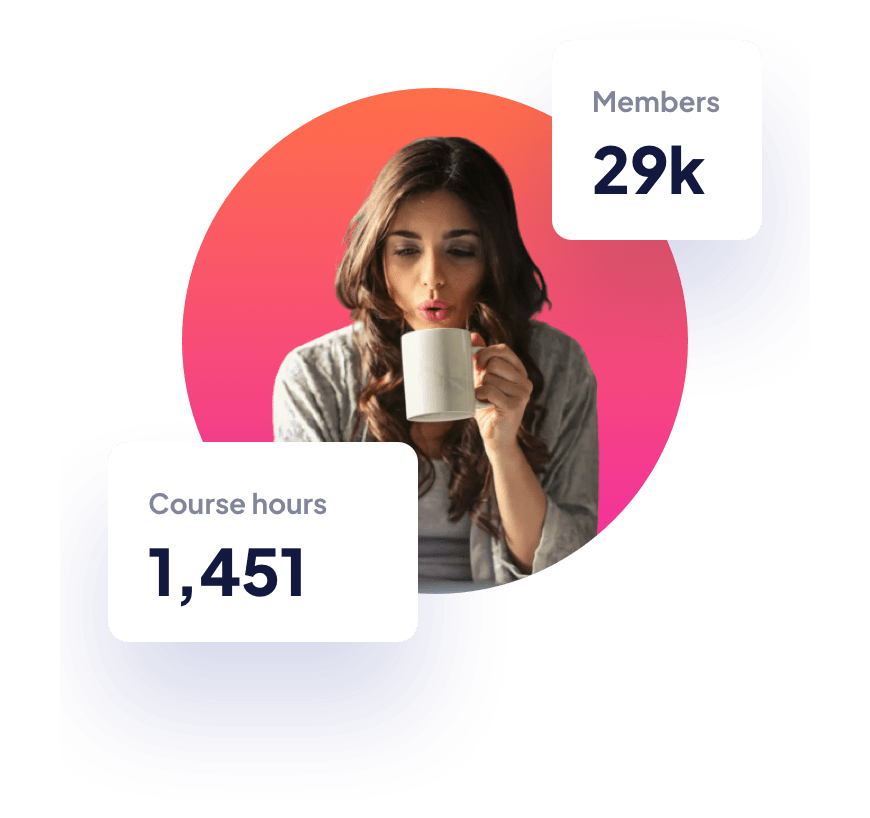
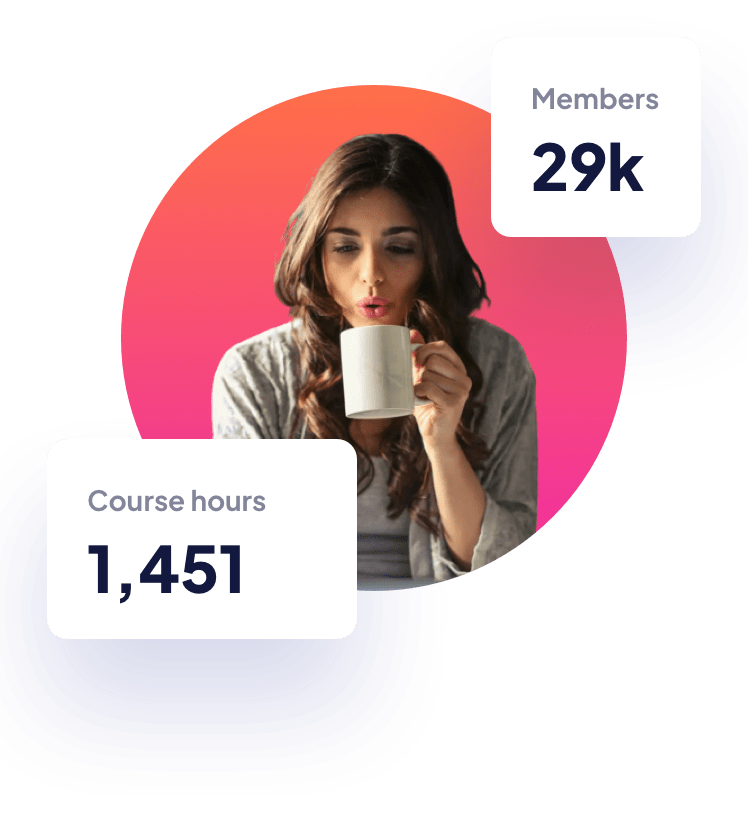
Add mobile-first HTML and CSS

Changed region(s): [[0.2767, 0.092, 0.8917, 0.7362], [0.123, 0.5828, 0.369, 0.7362], [0.1537, 0.1227, 0.3997, 0.5521]]

diff --git a/css/styles.css b/css/styles.css
@@ -25,16 +25,21 @@
   --color-pure-white: hsl(0, 0%, 100%);
   --color-background: hsl(0, 0%, 95%);
   --gradient-persian-rose-persimmon: linear-gradient(to top, hsl(322, 87%, 55%), hsl(13, 100%, 64%));
-  --gradient-persian-rose-dodger-blue: linear-gradient(to top, hsl(237, 100%, 64%), hsl(322, 87%, 55%));
-  /* font: font-style font-variant font-weight font-size/line-height font-family */
+  --gradient-persian-rose-persimmon-hover: linear-gradient(to top, hsl(322, 88%, 78%), hsl(13, 100%, 82%));
+  --gradient-persian-rose-dodger-blue: linear-gradient(to bottom, hsl(237, 100%, 64%), hsl(322, 87%, 55%));
+  --gradient-persian-rose-dodger-blue-hover: linear-gradient(to bottom, hsl(265, 71%, 78%), hsl(322, 88%, 78%));
+  --gradient-pure-white-titan-white: linear-gradient(to bottom, hsl(0, 0%, 100%), hsl(236, 100%, 97%));
   --text-heading-xl: 56px/70px 'plusJakartaSansExtraBold';
   --text-heading-lg: 40px/51px 'plusJakartaSansExtraBold';
   --text-heading-md: 32px/40px 'plusJakartaSansExtraBold';
-  --text-heading-sm: 24px/29px 'plusJakartaSansExtraBold';
-  --text-body-md: 18px/28px 'plusJakartaSansMedium';
+  --text-heading-md-mobile: 28px/32px 'plusJakartaSansExtraBold';
+  --text-heading-sm: 24px/32px 'plusJakartaSansExtraBold';
+  --text-heading-xs: 20px/24px 'plusJakartaSansExtraBold';
+  --text-body-md: 18px/28px 'plusJakartaSansBold';
+  --text-body-md-thin: 18px/28px 'plusJakartaSansMedium';
   --text-body-sm: 16px/28px 'plusJakartaSansBold';
+  --text-body-sm-thin: 16px/26px 'plusJakartaSansMedium';
 }
-
 
 * {
   box-sizing: border-box;
@@ -47,7 +52,16 @@ ul {
 }
 
 a {
+  outline: none;
+  border: none;
   text-decoration: none;
+}
+
+a:link,
+a:visited,
+a:hover,
+a:active {
+  color: inherit;
 }
 
 body {
@@ -55,3 +69,155 @@ body {
   height: 100vh;
 }
 
+main {
+  background-color: var(--color-pure-white);
+}
+
+header,
+main,
+.hero-text {
+  background-color: var(--color-pure-white);
+  padding: 16px;
+}
+
+button {
+  border: none;
+  color: var(--color-pure-white);
+  font: var(--text-body-sm);
+  cursor: pointer;
+}
+
+.button-sm {
+  width: 140px;
+  height: 48px;
+  border-radius: 28px;
+}
+
+.button-lg {
+  width: 167px;
+  height: 56px;
+  border-radius: 31.5px;
+}
+
+header {
+  display: flex;
+  justify-content: space-between;
+  align-items: center;
+}
+
+.bunting {
+  color: var(--color-bunting);
+}
+
+.bunting-bg {
+  background-color: var(--color-bunting);
+}
+
+header h3 {
+  font: var(--text-heading-sm)
+}
+
+header button:hover {
+  background: var(--color-scampi);
+}
+
+.hero-text h1 {
+  margin-top: 0;
+  font: var(--text-heading-lg);
+}
+
+.text-default {
+  font: var(--text-body-sm-thin);
+  color: var(--color-waterloo);
+}
+
+.hero-text button {
+  margin-top: 25px;
+  background: var(--gradient-persian-rose-persimmon);
+}
+
+.hero-text button:hover {
+  background: var(--gradient-persian-rose-persimmon-hover);
+}
+
+
+.hero-img-container {
+  background-color: var(--color-pure-white);
+  padding-top: 10px;
+}
+
+.mobile-hero-img {
+  max-width: 100%;
+}
+
+main {
+  padding-top: 0;
+  padding-bottom: 80px;
+  background: var(--gradient-pure-white-titan-white);
+}
+
+.courses-heading-container {
+  padding: 30px;
+  border-radius: 10px;
+  color: var(--color-pure-white);
+  background: var(--gradient-persian-rose-persimmon);
+}
+
+.courses-heading {
+  font: var(--text-heading-sm);
+}
+
+.courses-card {
+  position: relative;
+  margin-top: 42px;
+  border-radius: 10px;
+  padding: 30px 28px;
+  background-color: var(--color-pure-white);
+}
+
+.courses-card-img {
+  position: absolute;
+  top: -25px;
+  left: 28px;
+  width: 56px;
+  height: 56px;
+}
+
+.courses-card-heading {
+  font: var(--text-heading-xs);
+  margin: 20px 0;
+}
+
+a.courses-card-link {
+  display: block;
+  margin-top: 20px;
+  width: 104px;
+  font: var(--text-body-md);
+  color: var(--color-violet-red);
+}
+
+a.courses-card-link:hover {
+  color: var(--color-carnation-pink);
+}
+
+footer {
+  display: flex;
+  justify-content: space-between;
+  align-items: center;
+  padding: 0 16px;
+  height: 120px;
+  color: var(--color-pure-white);
+}
+
+footer h1 {
+  font: var(--text-heading-md-mobile);
+}
+
+footer button {
+  background: var(--gradient-persian-rose-dodger-blue);
+}
+
+footer button:hover,
+footer button:active {
+  background: var(--gradient-persian-rose-dodger-blue-hover);
+}

diff --git a/index.html b/index.html
@@ -1,5 +1,6 @@
 <!DOCTYPE html>
 <html lang="en">
+
 <head>
   <meta charset="UTF-8">
   <meta http-equiv="X-UA-Compatible" content="IE=edge">
@@ -9,7 +10,85 @@
   <link rel="stylesheet" href="./css/styles.css">
   <title>Skilled e-learning landing page</title>
 </head>
+
 <body>
-  
+  <header>
+    <h3 class="bunting">skilled</h3>
+    <button class="bunting-bg button-sm">Get Started</button>
+  </header>
+
+
+  <section class="hero-text">
+    <h1 class="bunting">Maximize skill, minimize budget</h1>
+    <p class="text-default">Our modern courses across a range of in&#8209;demand skills will give you the knowledge you need
+      to live the life you want.</p>
+    <button class="button-lg">Get Started</button>
+  </section>
+  <section class="hero-img-container">
+    <img class="mobile-hero-img" src="./assets/images/image-hero-mobile@2x.png"
+      alt="Image of a woman blowing into a mug">
+  </section>
+  <main>
+    <div class="courses-heading-container">
+      <h2 class="courses-heading">
+        Check out our most popular courses!
+      </h2>
+    </div>
+    
+    <article class="courses-card">
+      <img class="courses-card-img" src="./assets/images/icon-animation.svg" alt="Icon of a stick figure running">
+      <h3 class="courses-card-heading bunting">
+        Animation
+      </h3>
+      <p class="courses-card-txt text-default">Learn the latest animation techniques to create stunning motion
+        design and captivate your audience.</p>
+      <a class="courses-card-link" href="#top">Get Started</a>
+    </article>
+
+    <article class="courses-card">
+      <img class="courses-card-img" src="./assets/images/icon-design.svg" alt="Design software icon">
+      <h3 class="courses-card-heading bunting">
+        Design
+      </h3>
+      <p class="courses-card-txt text-default">Create beautiful, usable interfaces to help shape the future of 
+        how the web looks.</p>
+      <a class="courses-card-link" href="#top">Get Started</a>
+    </article>
+
+    <article class="courses-card">
+      <img class="courses-card-img" src="./assets/images/icon-photography.svg" alt="Icon of a camera">
+      <h3 class="courses-card-heading bunting">
+        Photography
+      </h3>
+      <p class="courses-card-txt text-default">Explore critical fundamentals like lighting, composition, and focus 
+        to capture exceptional photos.</p>
+      <a class="courses-card-link" href="#top">Get Started</a>
+    </article>
+
+    <article class="courses-card">
+      <img class="courses-card-img" src="./assets/images/icon-crypto.svg" alt="Icon of 8 dots">
+      <h3 class="courses-card-heading bunting">
+        Crypto
+      </h3>
+      <p class="courses-card-txt text-default">All you need to know to get started investing in crypto. Go from beginner 
+        to advanced with this 54 hour course.</p>
+      <a class="courses-card-link" href="#top">Get Started</a>
+    </article>
+
+    <article class="courses-card">
+      <img class="courses-card-img" src="./assets/images/icon-business.svg" alt="Icon of a briefcase">
+      <h3 class="courses-card-heading bunting">
+        Business
+      </h3>
+      <p class="courses-card-txt text-default">A step-by-step playbook to help you start, scale, and sustain your business 
+        without outside investment.</p>
+      <a class="courses-card-link" href="#top">Get Started</a>
+    </article>
+  </main>
+  <footer class="bunting-bg">
+    <h1>skilled</h1>
+    <button class="button-sm">Get Started</button>
+  </footer>
 </body>
+
 </html>
